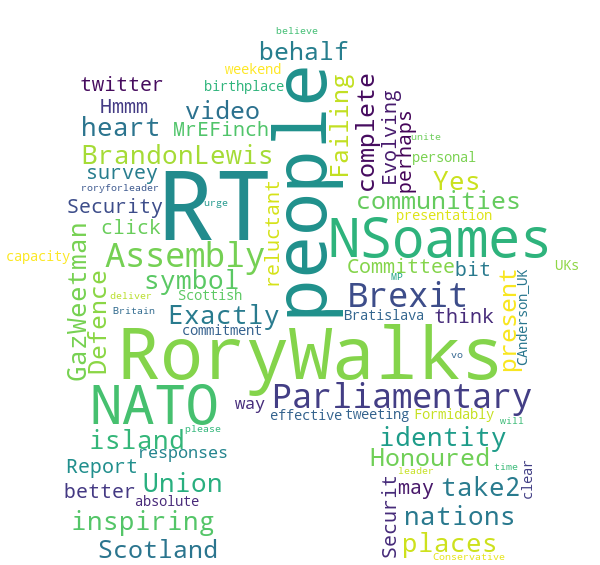
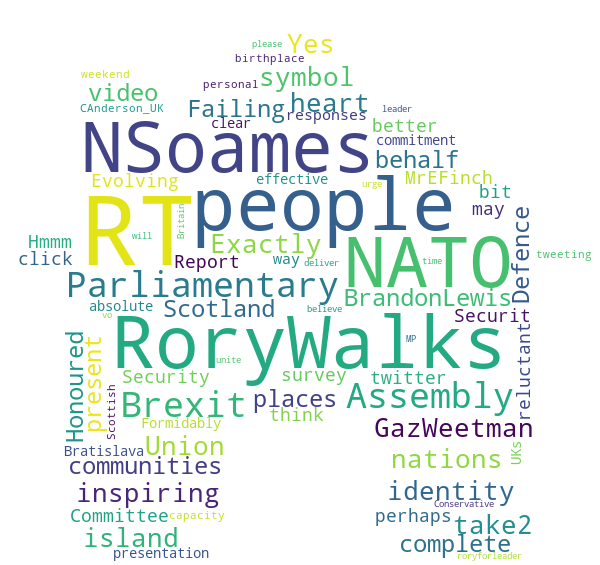
issue showing wordcloud

Changed region(s): [[0.03, 0.0301, 0.99, 0.9929]]

diff --git a/source/templates/body.html b/source/templates/body.html
@@ -1,1 +1,1 @@
-<body style="background-repeat: no-repeat" background="{{ url_for('static', filename = img) }}"></body>
+<body width = "100%" height = "100%" style="background-repeat: no-repeat" background="{{ url_for('static', filename = 'realDonaldTrump.png') }}"></body>

diff --git a/source/templates/new.html b/source/templates/new.html
@@ -1,0 +1,1 @@
+<body width = "100%" height = "100%" style="background-repeat: no-repeat" background="{{ url_for('static', filename = img) }}"></body>

diff --git a/source/page.py b/source/page.py
@@ -25,7 +25,6 @@ import urllib
 auth = tweepy.OAuthHandler(CONSUMER_KEY, CONSUMER_SECRET)
 auth.set_access_token(ACCESS_TOKEN, ACCESS_TOKEN_SECRET)
 api = tweepy.API(auth)
-word_cloud_lst = []
 tweet_lst = []
 
 def user_tweet(twitter_handle):
@@ -44,8 +43,8 @@ def user_tweet(twitter_handle):
 def generate_wordcloud(words, mask,handle):
     word_cloud = WordCloud(width = 512, height = 512, background_color='white', stopwords=STOPWORDS, mask=mask).generate(words)
     path = 'static/'+handle+'.png'
+    print(path)
     word_cloud.to_file(path)
-    word_cloud_lst = []
 
 app = Flask(__name__)
 
@@ -55,13 +54,14 @@ def my_form():
 
 @app.route('/', methods=['POST'])
 def my_form_post():
-    global tweet_lst
+    global word_cloud_lst
+    word_cloud_lst = []
     handle = request.form['account']
     user_tweet(handle)
     words = " ".join(word_cloud_lst)
     mask = np.array(Image.open(requests.get('http://www.clker.com/cliparts/O/i/x/Y/q/P/yellow-house-hi.png', stream=True).raw))
     generate_wordcloud(words, mask,handle)
-    return render_template("body.html",img = handle+'.png')
+    return render_template("new.html",img = handle+'.png')
 
 if __name__ == '__main__':
     app.run(debug=True)
